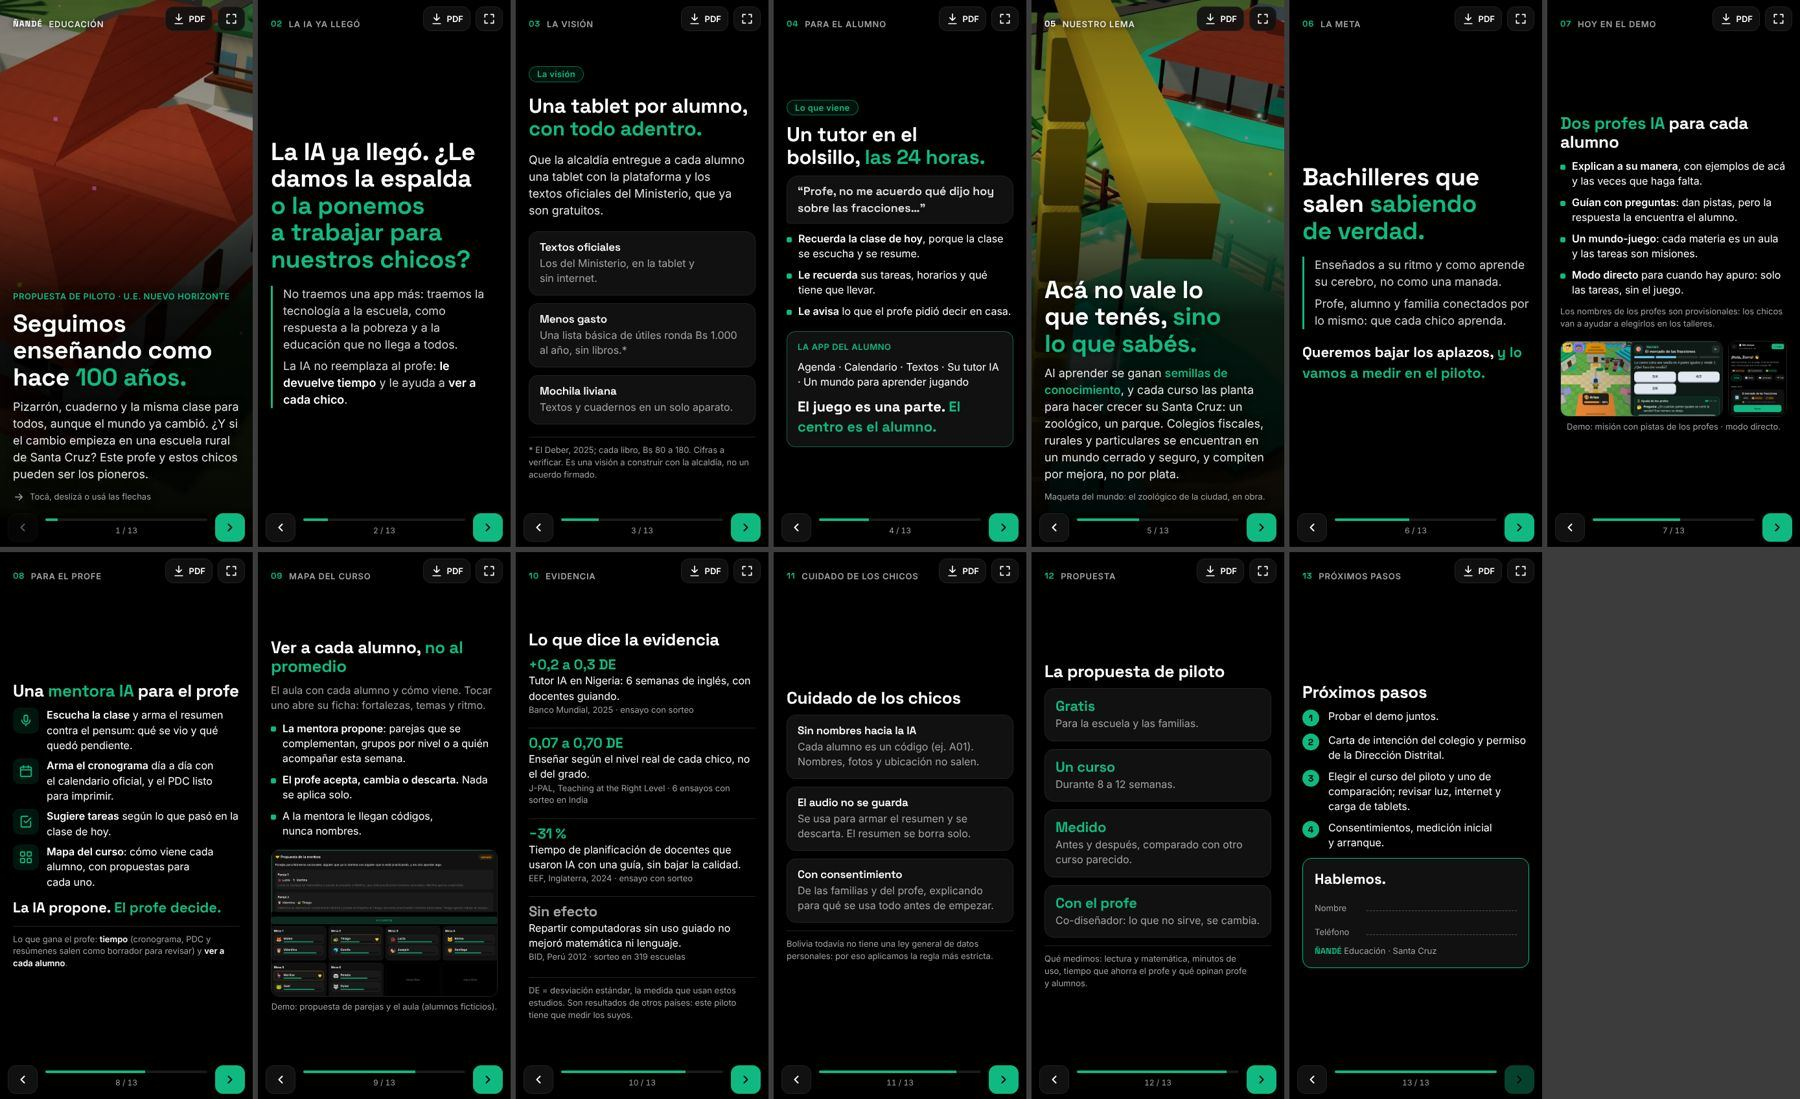
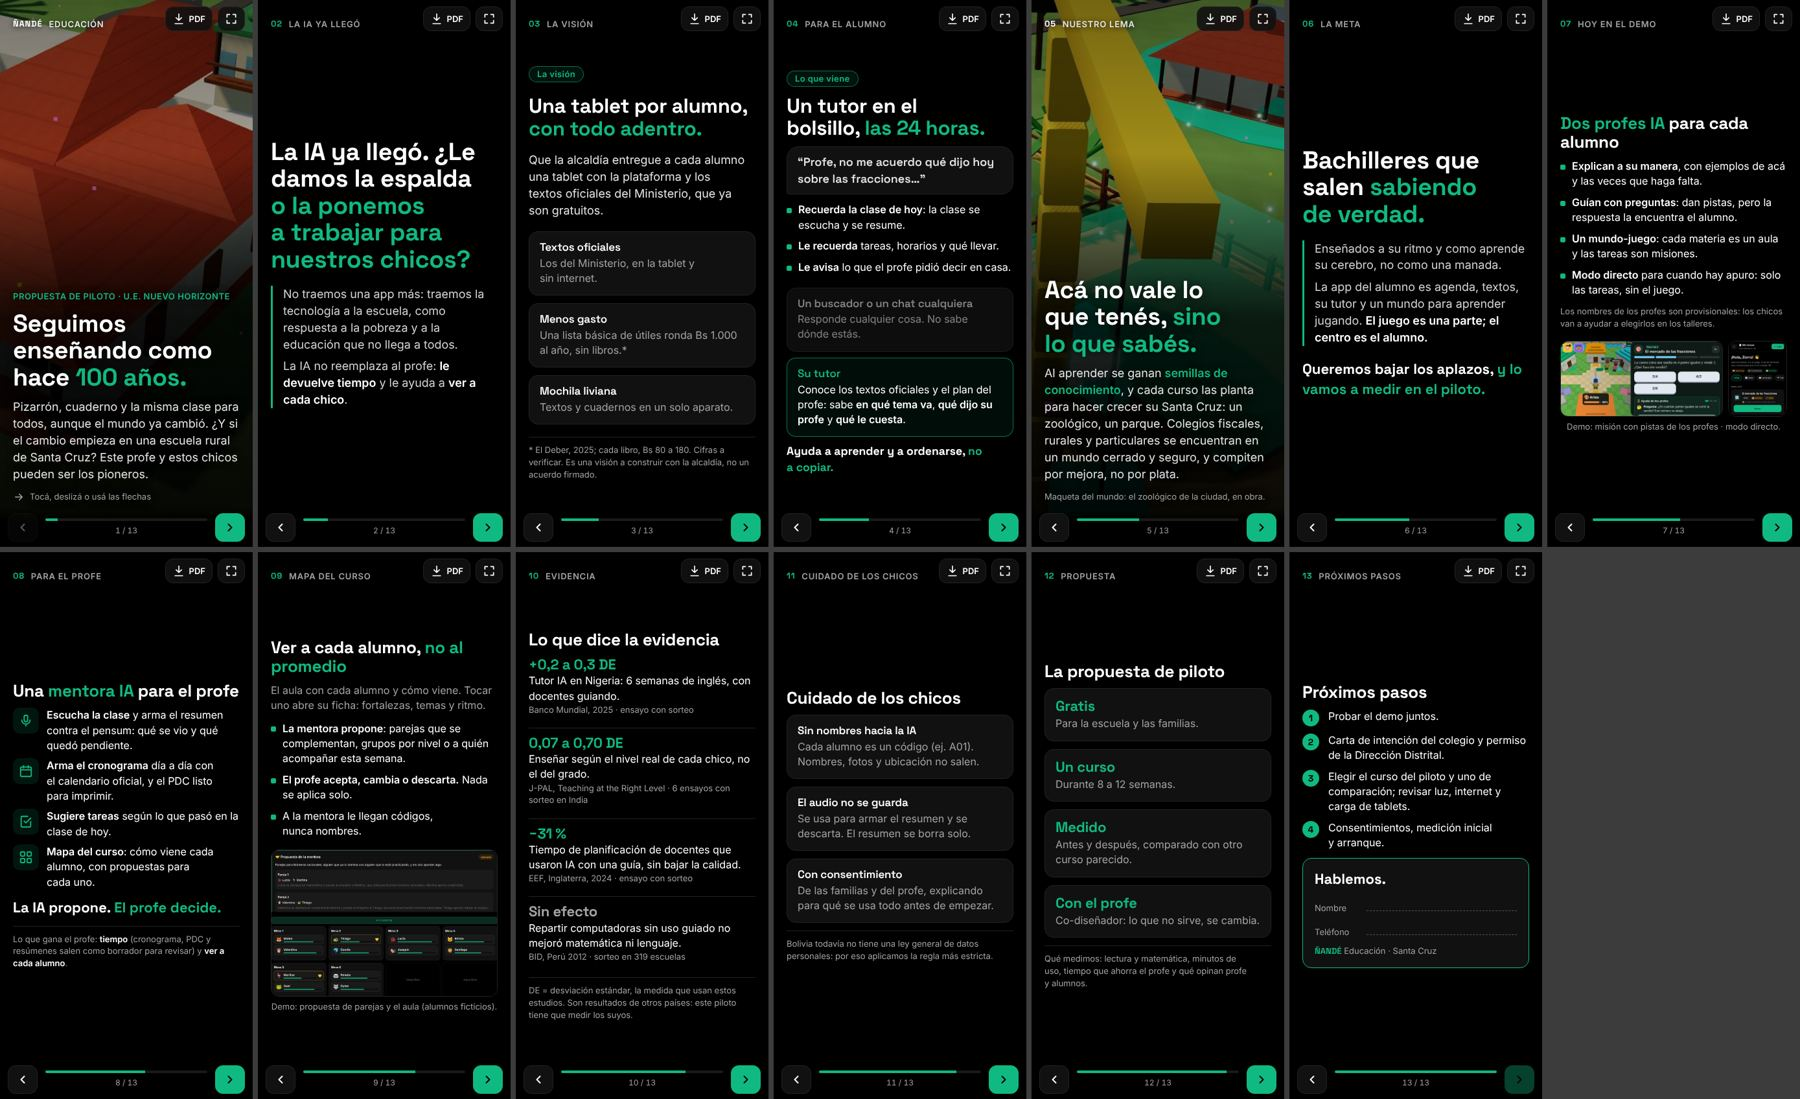
EDU.14b — Lámina 4: el tutor conoce los textos y el plan del profe
Contraste "un buscador o un chat cualquiera" vs "su tutor". "El centro es el
alumno" pasa a la lámina 6.

Claude-Session: https://claude.ai/code/session_01Jdt98c2PQNpQHHMW92gX8n

Changed region(s): [[0.4356, 0.0619, 0.56, 0.4331], [0.7156, 0.1237, 0.84, 0.3712]]

diff --git a/educacion/presentacion/index.html b/educacion/presentacion/index.html
@@ -136,9 +136,16 @@ figcaption { font-size: var(--chico); color: var(--sec); text-align: center; }
 h2.grande { font-size: calc(var(--h2) * 1.2); max-width: 20ch; text-wrap: balance; }
 .globo { font-family: 'Space Grotesk', sans-serif; font-weight: 600; font-size: calc(var(--f) * 1.12); background: var(--sup2);
   border: 1px solid var(--borde); border-radius: 18px 18px 18px 4px; padding: 10px 16px; max-width: 34ch; color: #e5e5e5; }
+.contraste { display: flex; flex-direction: column; gap: calc(var(--gap) * .8); }
+.tarjeta.gris { opacity: .8; }
+.tarjeta.gris h3 { color: var(--sec); }
+.tarjeta.verde-borde { border-color: rgba(16,185,129,.6); background: rgba(16,185,129,.07); }
+.tarjeta.verde-borde b { font-weight: 600; }
+.frase.chica { font-size: calc(var(--grande) * .8); }
 .tarjeta.app { border-color: rgba(16,185,129,.5); gap: 10px; }
 .hero .marca b { color: #fff; }
 @media screen and (orientation: landscape) and (max-height: 520px), screen and (orientation: portrait) and (max-height: 780px) { .sello-rep { display: none; } }
+@media screen and (orientation: portrait) and (max-height: 780px) { .sin-chico { display: none; } }
 /* ── Controles ───────────────────────────── */
 .barra { position: fixed; left: 0; right: 0; bottom: 0; height: calc(var(--barra) + env(safe-area-inset-bottom));
   padding: 0 calc(12px + env(safe-area-inset-right)) env(safe-area-inset-bottom) calc(12px + env(safe-area-inset-left));
@@ -270,17 +277,17 @@ h2.grande { font-size: calc(var(--h2) * 1.2); max-width: 20ch; text-wrap: balanc
       <div class="texto" style="display:flex;flex-direction:column;gap:var(--gap)">
         <p><span class="sello">Lo que viene</span></p>
         <h2 class="grande">Un tutor en el bolsillo, <span class="verde">las 24 horas.</span></h2>
-        <p class="globo">“Profe, no me acuerdo qué dijo hoy sobre las fracciones…”</p>
+        <p class="globo sin-chico">“Profe, no me acuerdo qué dijo hoy sobre las fracciones…”</p>
         <ul class="lista">
-          <li><b>Recuerda la clase de hoy</b>, porque la clase se escucha y se resume.</li>
-          <li><b>Le recuerda</b> sus tareas, horarios y qué tiene que llevar.</li>
+          <li><b>Recuerda la clase de hoy</b>: la clase se escucha y se resume.</li>
+          <li><b>Le recuerda</b> tareas, horarios y qué llevar.</li>
           <li><b>Le avisa</b> lo que el profe pidió decir en casa.</li>
         </ul>
       </div>
-      <div class="tarjeta app">
-        <p class="antetitulo">La app del alumno</p>
-        <p>Agenda · Calendario · Textos · Su tutor IA · Un mundo para aprender jugando</p>
-        <p class="frase">El juego es una parte. <span>El centro es el alumno.</span></p>
+      <div class="contraste">
+        <div class="tarjeta gris"><h3>Un buscador o un chat cualquiera</h3><p class="sec">Responde cualquier cosa. No sabe dónde estás.</p></div>
+        <div class="tarjeta verde-borde"><h3 class="verde">Su tutor</h3><p>Conoce los textos oficiales y el plan del profe: sabe <b>en qué tema va</b>, <b>qué dijo su profe</b> y <b>qué le cuesta</b>.</p></div>
+        <p class="frase chica">Ayuda a aprender y a ordenarse, <span>no a copiar.</span></p>
       </div>
     </div>
   </section>
@@ -303,7 +310,7 @@ h2.grande { font-size: calc(var(--h2) * 1.2); max-width: 20ch; text-wrap: balanc
       <h1>Bachilleres que salen <span class="verde">sabiendo de verdad.</span></h1>
       <div class="lineas">
         <p>Enseñados a su ritmo y como aprende su cerebro, no como una manada.</p>
-        <p>Profe, alumno y familia conectados por lo mismo: que cada chico aprenda.</p>
+        <p>La app del alumno es agenda, textos, su tutor y un mundo para aprender jugando. <b>El juego es una parte; el centro es el alumno.</b></p>
       </div>
       <p class="frase">Queremos bajar los aplazos, <span>y lo vamos a medir en el piloto.</span></p>
     </div>

diff --git a/docs/sesiones/EDU.14-presentacion.md b/docs/sesiones/EDU.14-presentacion.md
@@ -73,7 +73,10 @@ a la educación como respuesta a la pobreza y a la falta de alcance.
    referenciales 2026 pero no un total).
 4. **Un tutor en el bolsillo, las 24 horas** — sello "Lo que viene": recuerda la clase, tareas,
    horarios y qué llevar, avisos para la casa; la app del alumno es agenda, calendario, textos,
-   tutor y el mundo. "El juego es una parte. El centro es el alumno."
+   tutor y el mundo. Agregado del dueño: contraste "un buscador o un chat cualquiera" (no sabe dónde
+   estás) vs "su tutor" (conoce los textos oficiales y el plan del profe: en qué tema va, qué dijo su
+   profe, qué le cuesta). "Ayuda a aprender y a ordenarse, no a copiar." La frase "el centro es el
+   alumno" pasó a la lámina 6.
 5. **"Acá no vale lo que tenés, sino lo que sabés."** Semillas de conocimiento, construir su Santa
    Cruz, colegios que se encuentran en un mundo seguro. (foto zoológico)
 6. **Bachilleres que salen sabiendo de verdad.** "Queremos bajar los aplazos, y lo vamos a medir en el piloto."
